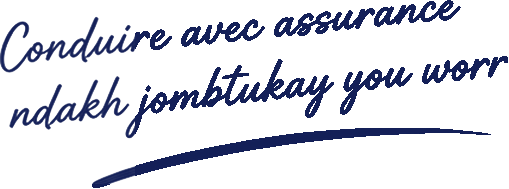
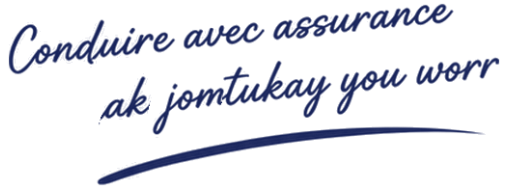
Étiquette de pièce : titres agrandis, et le slogan « ak jomtukay you worr »
La direction a demandé le 11/09/2026 : agrandir l'appellation et le nom
français de l'étiquette de pièce, et remplacer « Conduire avec assurance /
ndakh jombtukay you worr » par « Conduire avec assurance / ak jomtukay you
worr ».

1. Les titres. Ils gardent une hauteur de capitale COMMUNE à tout le catalogue
   (retour du 09/09 : « pas à la même taille que les autres »). Mesuré sur les
   3 325 pièces de foutasvr :
   - 40 px et l'espacement actuel (5,3) : 93,7 % des étiquettes à la hauteur
     pleine ;
   - 48 px sans rien d'autre : 84,8 % seulement ;
   - 48 px et les lettres de l'appellation resserrées à 2,0 : 94,0 %.
   Retenu : plafond 48 (+20 %), espacement 2,0 (constante ETQ70_ESPACE_APPEL,
   lue par la mesure et par le dessin). Le bloc garde son haut à 310 ; avec
   deux lignes, la barre bleue finit vers 455, au-dessus du slogan (492) et de
   la photo.
2. Le slogan. Il est dessiné dans la couche fixe dessus-1654.png, dans
   l'écriture du dessin de la direction ; aucune police de ce poste ne la
   reproduit. On l'a donc retouché dans son propre trait : « nd » et « h »
   retirés de « ndakh », « b » retiré de « jombtukay », coupes suivant la pente
   de l'écriture, « ak » et « jom » rapprochés le long de la ligne. Le halo clair
   du dessin est nettoyé là où les lettres sont parties et reposé autour des
   lettres déplacées. « Conduire avec assurance », « tukay you worr » et le trait
   de soulignement n'ont pas bougé.
[…]

diff --git a/tests/test_etiquette_titres_egaux_et_pieces_fines.php b/tests/test_etiquette_titres_egaux_et_pieces_fines.php
@@ -63,12 +63,12 @@ $cas = [
 foreach ($cas as $c) {
     $t = etiquette70_titres_disposer($c[0], $c[1]);
     vrai("« $c[0] » / « " . mb_substr($c[1], 0, 28) . "… » : mêmes hauteurs à 1 px", abs($t['cap_appel'] - $t['cap_fr']) <= 1.0);
-    vrai("  … et l'appellation ne dépasse plus 40 px (elle faisait 79, puis 56)", $t['cap_appel'] <= 40.5);
+    vrai("  … et l'appellation ne dépasse pas 48 px (79, puis 56, puis 40 ; agrandie le 11/09)", $t['cap_appel'] <= 48.5);
     vrai("  … et le nom français dépasse 30 px (il faisait 30)", $t['cap_fr'] > 30.5);
     vrai('  … le nom français tient dans sa largeur (730)',
         etiquette70_largeur_texte('barlow_condensed_700', $c[1], $t['corps_fr'], 0.9) <= 730.0);
     vrai('  … l\'appellation tient dans sa largeur (730)',
-        etiquette70_largeur_texte('anton', $c[0], $t['corps_appel'], 5.3) <= 730.0);
+        etiquette70_largeur_texte('anton', $c[0], $t['corps_appel'], ETQ70_ESPACE_APPEL) <= 730.0);
     vrai('  … le bloc commence toujours au même endroit (haut à 310)', abs(($t['base_appel'] - $t['cap_appel']) - 310.0) <= 0.5);
     vrai('  … le nom français est SOUS l\'appellation, sans se toucher', $t['base_fr'] - $t['cap_fr'] >= $t['base_appel'] + 17.5);
 }
@@ -242,11 +242,18 @@ if ($res !== null) {
 echo "— une hauteur commune à TOUT le catalogue, et la barre bleue qui suit le texte —\n";
 /* Second retour de la direction (7750408447) : « les écritures sont grosses
    et pas à la même taille que les autres ». Un nom court doit sortir à la
-   même hauteur qu'un nom moyen : le plafond est commun, 40 px. */
+   même hauteur qu'un nom moyen : le plafond est commun, 48 px depuis le 11/09 (40 avant). */
 $court = etiquette70_titres_disposer('SETTU', 'CÂBLE DE VITESSE');
-$moyen = etiquette70_titres_disposer('SETTU', "RÉTROVISEUR D'ANTÉVISON MERCEDES BENZ");
-vrai('un nom court sort à 40 px, pas plus', abs($court['cap_fr'] - 40.0) <= 1.0 && abs($court['cap_appel'] - 40.0) <= 1.0);
+/* Le nom « moyen » est un nom de longueur MÉDIANE : 23 lettres, la médiane du
+   catalogue étant à 22 (mesuré le 11/09/2026 sur 3 235 noms). L'ancien exemple
+   (37 lettres) est plus long que 94 % des noms : il a son propre contrôle. */
+$moyen = etiquette70_titres_disposer('SETTU', "RÉTROVISEUR D'ANTÉVISON");
+$long = etiquette70_titres_disposer('SETTU', "RÉTROVISEUR D'ANTÉVISON MERCEDES BENZ");
+vrai('un nom court sort à 48 px, pas plus', abs($court['cap_fr'] - 48.0) <= 1.0 && abs($court['cap_appel'] - 48.0) <= 1.0);
+vrai('agrandi le 11/09 : les lettres de l’appellation sont resserrées (2,0 au lieu de 5,3)', ETQ70_ESPACE_APPEL === 2.0);
+vrai('… et la mesure comme le dessin lisent ce même espacement', substr_count((string) file_get_contents($RACINE . '/includes/etiquette_fpl70.php'), 'ETQ70_ESPACE_APPEL') >= 4);
 vrai('un nom moyen sort à la même hauteur que le court', abs($moyen['cap_fr'] - $court['cap_fr']) <= 1.0);
+vrai('un nom parmi les 6 % les plus longs ne descend pas sous 40 px (la taille d’avant)', $long['cap_fr'] >= 39.5);
 
 /* La barre bleue : effacée de la couche fixe, dessinée par le moteur à 35 px
    sous la ligne de base du nom français. On rend une étiquette avec la photo
@@ -272,7 +279,7 @@ $donnees = [
 ];
 $rendu = etiquette70_rendu($donnees, ETQ70_BASE);
 $s = ETQ70_BASE / ETQ70_LOGIQUE;
-$attendu_y = (int) round($moyen['base_fr'] * $s) + 35;
+$attendu_y = (int) round($long['base_fr'] * $s) + 35;   // les titres rendus sont ceux de $long
 $xm = (int) ((439 + 566) / 2);
 $c = imagecolorat($rendu, $xm, $attendu_y + 6);
 $r_ = ($c >> 16) & 255; $g_ = ($c >> 8) & 255; $b_ = $c & 255;
@@ -305,6 +312,26 @@ vrai('le cache du détourage est reparti (clé v14)', strpos($detour, "'|v14'") 
 vrai('le sauvetage des glaces est branché avant les portes', strpos($detour, '$diag_glaces = fpl_detour_sauver_glaces(') !== false);
 vrai('le garde-fou « squelettique » regarde le vide avant de refuser', strpos($detour, '$vrai_vide = ($remplissage >= 0.12 && $partIntrus < 0.10);') !== false);
 vrai('… à la tolérance SERRÉE du fond de studio (±10), pas à celle des diagnostics', strpos($detour, '$mR, $mV, $mB, $mSom, $nbModes, 10, true)) {') !== false);
+
+echo '— le slogan « Conduire avec assurance / ak jomtukay you worr » (11/09/2026) —' . PHP_EOL;
+$sl = imagecreatefrompng($RACINE . '/image/etiquette70/dessus-1654.png');
+$encre_zone = function ($x0, $x1, $y0, $y1) use ($sl) {
+    $n = 0;
+    for ($y = $y0; $y <= $y1; $y++) {
+        for ($x = $x0; $x <= $x1; $x++) {
+            $c = imagecolorat($sl, $x, $y);
+            if (((($c >> 24) & 127) < 60) && (($c & 255) > ((($c >> 16) & 255) + 25)) && ((($c >> 16) & 255) < 120)) {
+                $n++;
+            }
+        }
+    }
+    return $n;
+};
+vrai('« nd » de « ndakh » est effacé de la couche fixe', $encre_zone(410, 450, 850, 882) === 0);
+vrai('« ak » est posé plus à droite, juste avant « jomtukay »', $encre_zone(500, 556, 830, 876) > 300);
+vrai('le « b » de « jombtukay » est effacé (sa hampe ne monte plus au-dessus du « m »)', $encre_zone(612, 621, 819, 835) === 0);
+vrai('la page du QR dit la même phrase', strpos((string) file_get_contents($RACINE . '/p.php'), 'alt="Conduire avec assurance — ak jomtukay you worr"') !== false);
+imagedestroy($sl);
 
 echo "\n$ok OK / $ko KO\n";
 exit($ko === 0 ? 0 : 1);

diff --git a/includes/etiquette_fpl70.php b/includes/etiquette_fpl70.php
@@ -35,6 +35,14 @@ define('ETQ70_BASE', 1654);
 /** Le côté logique du dessin de l'atelier. */
 define('ETQ70_LOGIQUE', 1080);
 
+/**
+ * L'ESPACE ENTRE LES LETTRES DE L'APPELLATION (Anton), en unités logiques.
+ * 11/09/2026, « agrandis les écritures appellation de même que nom français » :
+ * les titres montent de 40 à 48 px de capitale et ces lettres se resserrent de
+ * 5,3 à 2,0. Voir etiquette70_titres_disposer().
+ */
+define('ETQ70_ESPACE_APPEL', 2.0);
+
 /** Le marine du dessin ('#03215D'). */
 function etiquette70_marine($img)
 {
@@ -646,7 +654,7 @@ function etiquette70_donnees_pour_produit(array $produit)
  * « MÊME TAILLE » SE MESURE EN HAUTEUR DE CAPITALE, jamais au corps : à corps
  * égal, Anton monte 1,22 fois plus haut que Barlow Condensed. On cherche donc
  * UNE hauteur commune, la plus grande qui laisse les deux lignes tenir dans
- * leur largeur, plafonnée à 40 px.
+ * leur largeur, plafonnée à 48 px (40 jusqu'au 11/09/2026, voir plus bas).
  *
  * LE PLAFOND EST À 40, PAS À 56 (09/09/2026, second retour de la direction sur
  * 7750408447 : « les écritures sont grosses et pas à la même taille que les
@@ -657,6 +665,14 @@ function etiquette70_donnees_pour_produit(array $produit)
  * à 56, 77 % seulement. Et 40, c'est la taille que la direction a validée sur
  * les deux rétroviseurs du matin. Seuls les noms les plus longs descendent
  * encore en dessous.
+ *
+ * AGRANDIS LE 11/09/2026 (direction : « agrandis les écritures appellation de
+ * même que nom français ») : plafond 48 et lettres de l'appellation resserrées
+ * (ETQ70_ESPACE_APPEL, 5,3 → 2,0). La hauteur reste commune au catalogue :
+ * sur les 3 325 pièces de foutasvr, 94,0 % sortent à 48, autant qu'à 40 avec
+ * l'ancien espacement (93,7 %) ; à 48 sans resserrer, 84,8 % seulement. Le bloc
+ * garde son haut à 310 ; avec deux lignes, la barre bleue finit vers 455, sous
+ * le texte et au-dessus du slogan (492).
  *
  * LA LARGEUR : 730 unités depuis x = 285, soit jusqu'à 1015 sur les 1080 de
  * la toile logique. Les anciens budgets (520 / 560) laissaient un tiers de la
@@ -681,7 +697,7 @@ function etiquette70_donnees_pour_produit(array $produit)
  */
 function etiquette70_titres_disposer($wolof, $francais)
 {
-    $CAP_PLAFOND = 40.0;
+    $CAP_PLAFOND = 48.0;
     $CAP_PLANCHER = 26.0;
     $LARG_APPEL = 730.0;
     $LARG_FR = 730.0;
@@ -693,7 +709,7 @@ function etiquette70_titres_disposer($wolof, $francais)
     while ($cap > $CAP_PLANCHER) {
         $ca = etiquette70_corps_pour_cap('anton', $cap);
         $cf = etiquette70_corps_pour_cap('barlow_condensed_700', $cap);
-        $tient_appel = $wolof === '' || etiquette70_largeur_texte('anton', $wolof, $ca, 5.3) <= $LARG_APPEL;
+        $tient_appel = $wolof === '' || etiquette70_largeur_texte('anton', $wolof, $ca, ETQ70_ESPACE_APPEL) <= $LARG_APPEL;
         $tient_fr = $francais === '' || etiquette70_largeur_texte('barlow_condensed_700', $francais, $cf, 0.9) <= $LARG_FR;
         if ($tient_appel && $tient_fr) {
             break;
@@ -705,7 +721,7 @@ function etiquette70_titres_disposer($wolof, $francais)
     $cap_appel = $cap;
     $corps_appel = etiquette70_corps_pour_cap('anton', $cap_appel);
     while ($corps_appel > 14 && $wolof !== ''
-        && etiquette70_largeur_texte('anton', $wolof, $corps_appel, 5.3) > $LARG_APPEL) {
+        && etiquette70_largeur_texte('anton', $wolof, $corps_appel, ETQ70_ESPACE_APPEL) > $LARG_APPEL) {
         $corps_appel -= 1.0;
         $cap_appel = etiquette70_cap_hauteur('anton', $corps_appel);
     }
@@ -824,7 +840,7 @@ function etiquette70_rendu(array $donnees, $cote)
     $francais = mb_strtoupper(trim((string) $donnees['nom_francais']), 'UTF-8');
     $t = etiquette70_titres_disposer($wolof, $francais);
     if ($wolof !== '') {
-        etiquette70_texte($img, 285 * $s, $t['base_appel'] * $s, $wolof, 'anton', $t['corps_appel'] * $s, $encre, 5.3 * $s);
+        etiquette70_texte($img, 285 * $s, $t['base_appel'] * $s, $wolof, 'anton', $t['corps_appel'] * $s, $encre, ETQ70_ESPACE_APPEL * $s);
     }
     if ($francais !== '') {
         etiquette70_texte($img, 285 * $s, $t['base_fr'] * $s, $francais, 'barlow_condensed_700', $t['corps_fr'] * $s, $noir_titre, 0.9 * $s);

diff --git a/p.php b/p.php
@@ -408,7 +408,7 @@ h1.piece { font-family: var(--cond); font-size: 32px; line-height: 1.1; color: v
 
     <?php endif; ?>
 
-    <img class="slogan" src="/image/vitrine/slogan-manuscrit.png" alt="Conduire avec assurance — ndakh jombtukay you worr">
+    <img class="slogan" src="/image/vitrine/slogan-manuscrit.png" alt="Conduire avec assurance — ak jomtukay you worr">
 
     <nav class="liens" aria-label="Aller plus loin">
         <a href="/produits.php">Voir le catalogue</a>
